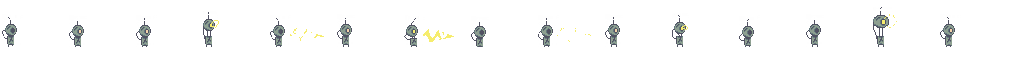
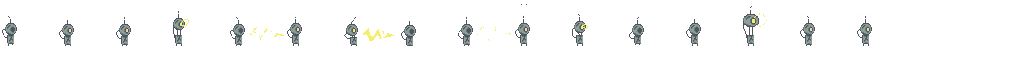
Corrected animation lengths for fireTowers and stunTowers.

diff --git a/source/core/src/main/com/csse3200/game/areas/ForestGameArea.java b/source/core/src/main/com/csse3200/game/areas/ForestGameArea.java
@@ -17,6 +17,8 @@ import com.csse3200.game.services.ServiceLocator;
 import com.csse3200.game.components.gamearea.GameAreaDisplay;
 import org.slf4j.Logger;
 import org.slf4j.LoggerFactory;
+
+import java.util.Random;
 import java.util.Timer;
 import java.util.TimerTask;
 
@@ -394,15 +396,16 @@ public class ForestGameArea extends GameArea {
     GridPoint2 maxPos = terrain.getMapBounds(0).sub(2, 2);
 
     for (int i = 0; i < NUM_WEAPON_TOWERS; i++) {
-      GridPoint2 randomPos = RandomUtils.random(minPos, maxPos);
+      GridPoint2 randomPos1 = RandomUtils.random(minPos, maxPos);
+      GridPoint2 randomPos2 = RandomUtils.random(minPos, maxPos);
       //Entity weaponTower = TowerFactory.createWeaponTower();
       Entity wallTower = TowerFactory.createWallTower();
       Entity fireTower = TowerFactory.createFireTower();
       Entity stunTower = TowerFactory.createStunTower();
       //spawnEntityAt(weaponTower, randomPos, true, true);
-      spawnEntityAt(fireTower, randomPos, true, true);
-      spawnEntityAt(stunTower, randomPos, true, true);
-      spawnEntityAt(wallTower, new GridPoint2(randomPos.x + 3, randomPos.y), true, true);
+      spawnEntityAt(fireTower, randomPos1, true, true);
+      spawnEntityAt(stunTower, randomPos2, true, true);
+      //spawnEntityAt(wallTower, new GridPoint2(randomPos1.x + 3, randomPos1.y), true, true);
     }
   }
 

diff --git a/source/core/src/main/com/csse3200/game/entities/factories/TowerFactory.java b/source/core/src/main/com/csse3200/game/entities/factories/TowerFactory.java
@@ -16,6 +16,7 @@ import com.csse3200.game.components.tower.TowerAnimationController;
 import com.csse3200.game.components.tasks.CurrencyTask;
 import com.csse3200.game.entities.Entity;
 import com.csse3200.game.physics.PhysicsLayer;
+import com.csse3200.game.physics.PhysicsUtils;
 import com.csse3200.game.physics.components.ColliderComponent;
 import com.csse3200.game.physics.components.HitboxComponent;
 import com.csse3200.game.physics.components.PhysicsComponent;
@@ -155,8 +156,7 @@ public class TowerFactory {
                 .addComponent(aiTaskComponent)
                 .addComponent(animator)
                 .addComponent(new FireTowerAnimationController());
-
-        fireTower.setScale(3, 3);
+        fireTower.setScale(1.25f, 1.25f);
         return fireTower;
     }
 
@@ -182,6 +182,7 @@ public class TowerFactory {
                 .addComponent(new StunTowerAnimationController());
 
         stunTower.setScale(1.5f, 1.5f);
+        PhysicsUtils.setScaledCollider(stunTower, 0.5f, 0.5f);
         return stunTower;
     }
 

diff --git a/source/core/src/main/com/csse3200/game/components/tasks/FireTowerCombatTask.java b/source/core/src/main/com/csse3200/game/components/tasks/FireTowerCombatTask.java
@@ -95,8 +95,8 @@ public class FireTowerCombatTask extends DefaultTask  implements PriorityTask {
                     owner.getEntity().getEvents().trigger(ATTACK);
                     Entity newProjectile = ProjectileFactory.createFireBall(owner.getEntity(),
                             new Vector2(100, owner.getEntity().getPosition().y), new Vector2(2f, 2f));
-                    newProjectile.setPosition((float) (owner.getEntity().getPosition().x + 0.75),
-                            (float) (owner.getEntity().getPosition().y + 0.75));
+                    newProjectile.setPosition((float) (owner.getEntity().getPosition().x + 0.25),
+                            (float) (owner.getEntity().getPosition().y + 0.25));
                     ServiceLocator.getEntityService().register(newProjectile);
                 }
             }

diff --git a/source/core/src/main/com/csse3200/game/components/tasks/StunTowerCombatTask.java b/source/core/src/main/com/csse3200/game/components/tasks/StunTowerCombatTask.java
@@ -78,8 +78,8 @@ public class StunTowerCombatTask extends DefaultTask implements PriorityTask {
                     owner.getEntity().getEvents().trigger(ATTACK);
                     Entity newProjectile = ProjectileFactory.createFireBall(owner.getEntity(),
                             new Vector2(100, owner.getEntity().getPosition().y), new Vector2(2f, 2f));
-                    newProjectile.setPosition((float) (owner.getEntity().getPosition().x + 0.75),
-                            (float) (owner.getEntity().getPosition().y + 0.75));
+                    newProjectile.setPosition((float) (owner.getEntity().getPosition().x + 0.25),
+                            (float) (owner.getEntity().getPosition().y + 0.25));
                     ServiceLocator.getEntityService().register(newProjectile);
                 }
             }
